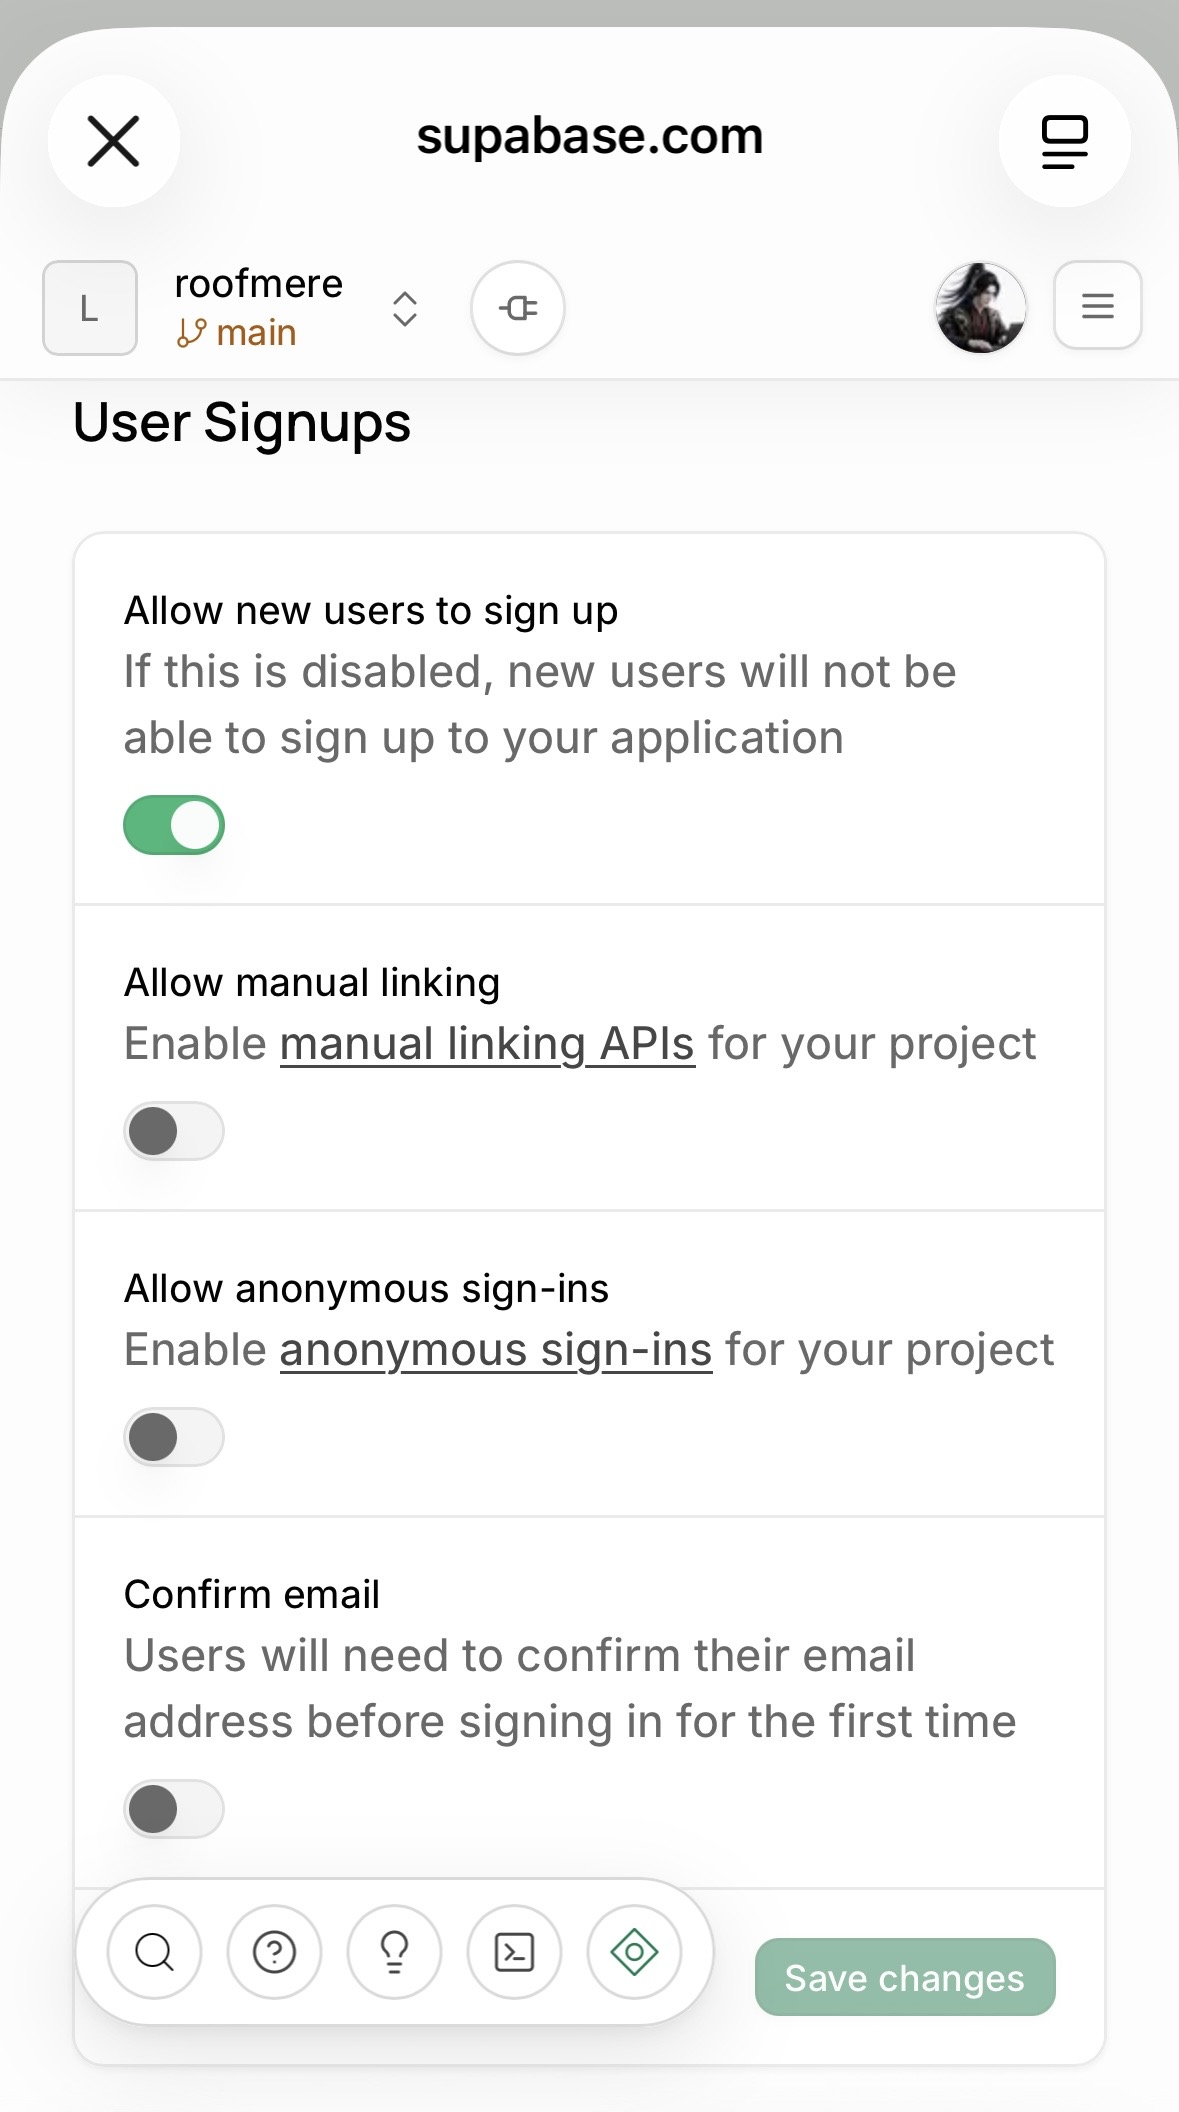
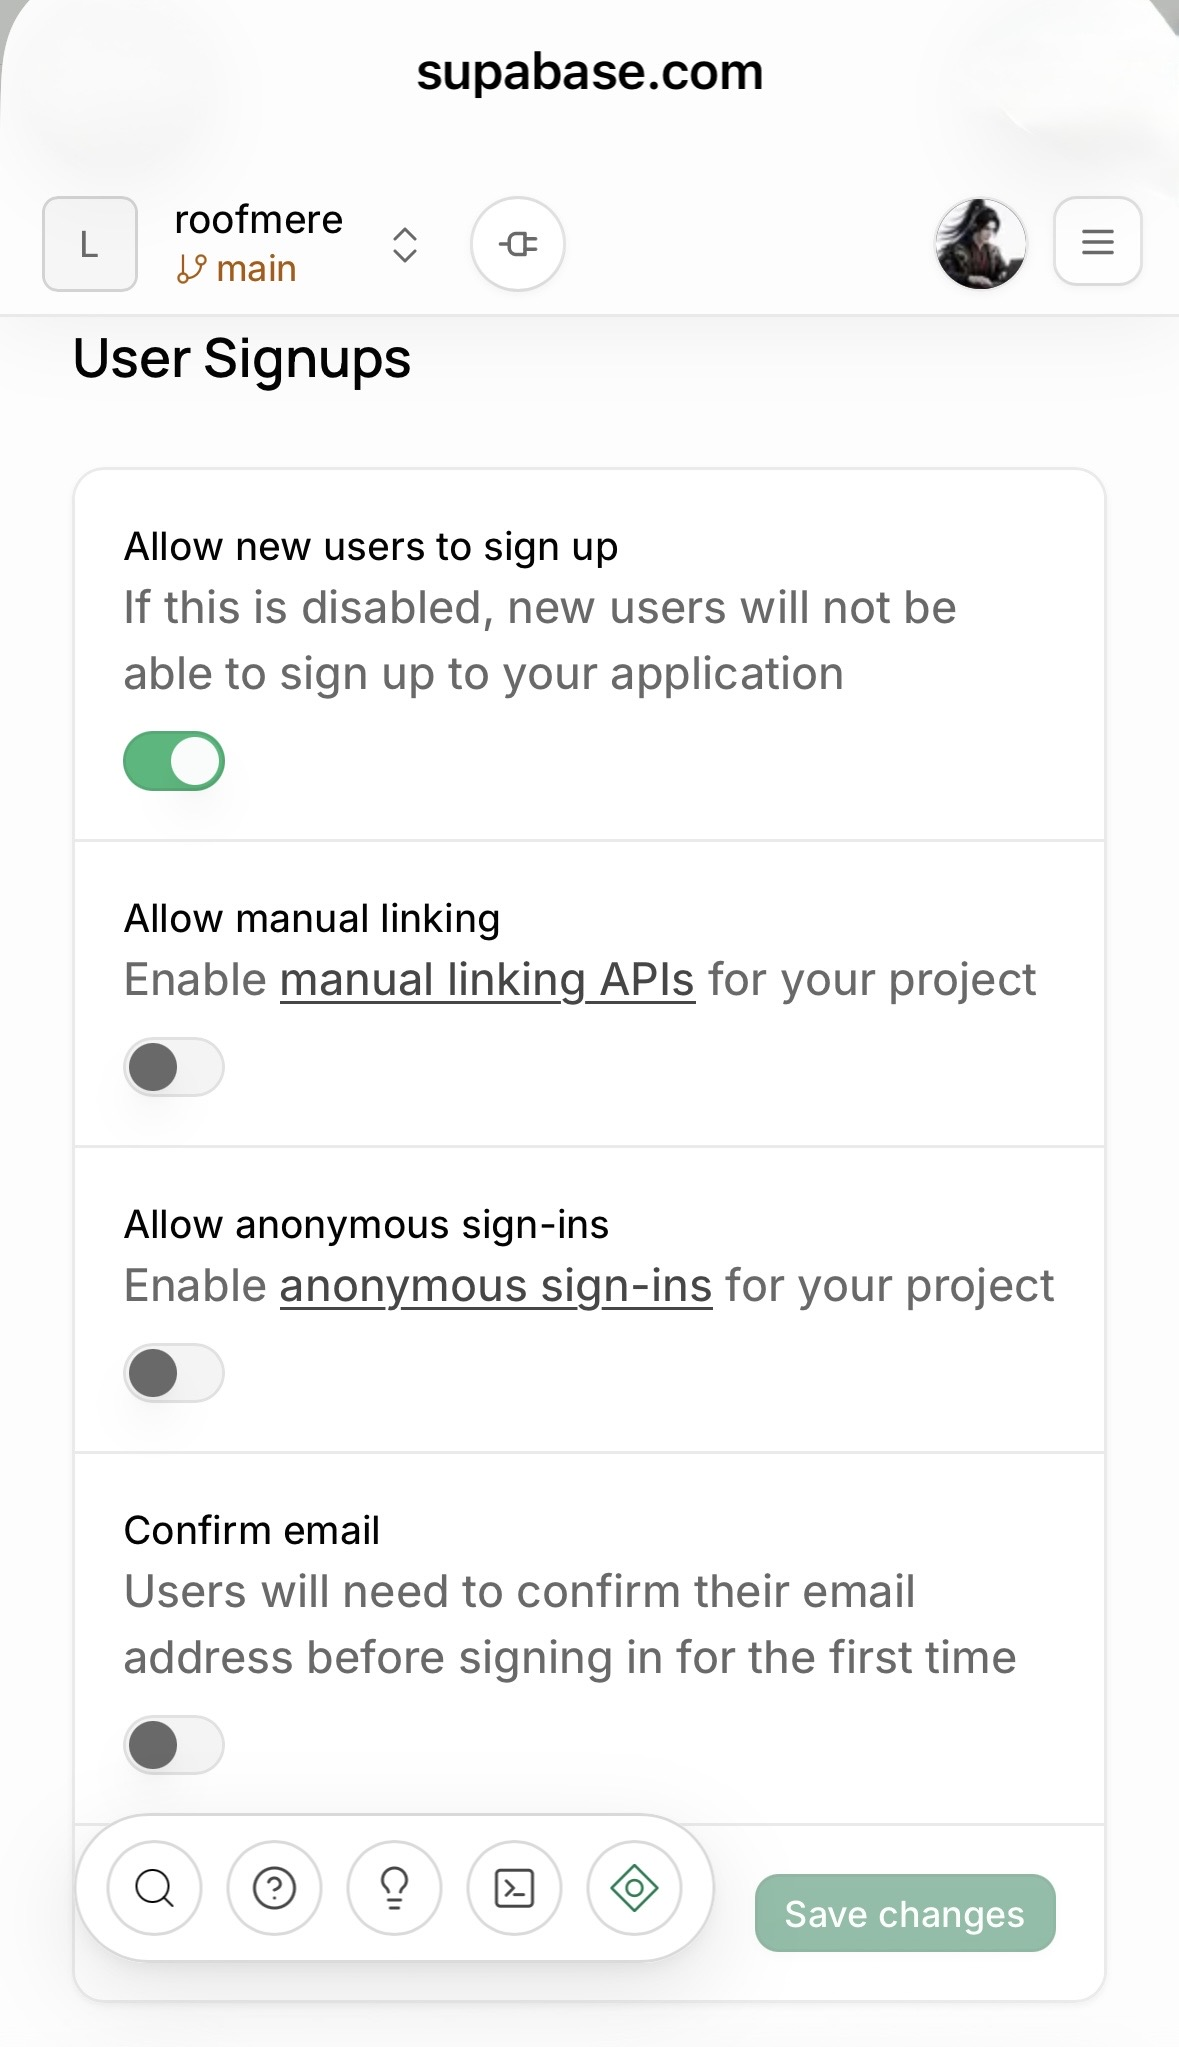
Replace Project URL example with newly uploaded screenshot and refresh image cache

diff --git a/index.html b/index.html
@@ -22,7 +22,7 @@ function card(tag,title,body){panel.innerHTML='<section class="card"><div class=
 function split(left,src,caption){return '<div class="split"><div>'+left+'</div><aside class="shot"><figure><img src="setup-assets/'+src+'" alt="'+esc(caption)+'" loading="lazy" onerror="this.closest(\'figure\').style.display=\'none\'"><figcaption>'+esc(caption)+'</figcaption></figure></aside></div>'}
 function render(){const hero=document.getElementById("welcomeHero"),context=document.getElementById("stepContext");hero.classList.toggle("compact",state.step>0);context.classList.toggle("visible",state.step>0);context.textContent=state.step>0?"Step "+(state.step+1)+" of 6  ·  "+steps[state.step]:"";document.getElementById("progress").innerHTML=steps.map((s,i)=>'<div class="step '+(i<state.step?'done':i===state.step?'current':'')+'" title="'+esc(s)+'"></div>').join("");
 if(state.step===0)card("Step 1 of 6","Let's get started",'<p>No ZIP extraction is needed for database setup. You will create free-tier eligible accounts with Supabase and Netlify. Cloud providers may charge depending on usage.</p><div class="note">No financial information or secret keys are needed in this installer. You can leave and return to this file later.</div>'+nav());
-if(state.step===1)card("Step 2 of 6","Set up your Supabase project",'<p>Follow these steps in order. Your database stays in your own Supabase account.</p><div class="setup-section"><h3>1. Create your project</h3><p>Sign in to Supabase, create a new project, set a strong database password, and wait until it is ready.</p><a class="btn" href="'+links.supabase+'" target="_blank" rel="noopener noreferrer">Open Supabase ↗</a><details class="url-guide"><summary>View example: create a project</summary><div class="url-guide-inner">'+split("","01-create-project.png","Supabase create project example")+'</div></details></div><div class="setup-section"><h3>2. Copy and verify your Project URL</h3><p>On the project overview, tap <b>Copy → Project URL</b>. Paste the copied URL and tap <b>Verify</b>.</p>'+"<details class=\"url-guide\"><summary>View example: where to copy the Project URL</summary><div class=\"url-guide-inner\"><img loading=\"lazy\" alt=\"Example Supabase dashboard with Copy menu and Project URL highlighted; publishable key masked\" src=\"setup-assets/supabase-project-url.jpeg\"><p>In your Supabase project overview, tap <b>Copy</b>, then <b>Project URL</b>. Paste the copied address above.</p></div></details>"+'<label for="authProject">Supabase Project URL</label><div class="verify-row"><input id="authProject" type="url" autocapitalize="off" autocomplete="off" spellcheck="false" placeholder="https://abcdefghijklmnopqrst.supabase.co" value="'+esc(state.projectRef||'')+'" oninput="onProjectEdit(this)"><button id="verifyProjectBtn" type="button" onclick="verifyProject()">Verify</button></div><div class="field-example">Example: <code>https://abcdefghijklmnopqrst.supabase.co</code></div><div class="verify-status" id="projectStatus" role="status" aria-live="polite"></div><p class="muted">Verify checks the Project URL format only. It does not test network access, database permissions, or RLS.</p></div><div class="setup-section"><h3>3. Configure Authentication</h3><p>Once verified, open this project\'s Authentication settings. For this <b>private test only</b>: Allow new users to sign up <b>ON</b>, Allow anonymous sign-ins <b>OFF</b>, Confirm email <b>OFF</b>. Review security before inviting real users.</p><details class="url-guide"><summary>View example: Authentication settings</summary><div class="url-guide-inner"><p class="muted">Use these settings for your private test: <b>Allow new users to sign up — ON</b>; <b>Allow anonymous sign-ins — OFF</b>; <b>Confirm email — OFF</b>.</p><img loading="lazy" src="setup-assets/supabase-authentication-settings.png" alt="Actual Supabase Authentication settings: signups enabled, anonymous sign-ins disabled, email confirmation disabled" style="display:block;width:100%;height:auto;max-width:520px;margin:14px auto;border-radius:14px"></div></details><button id="authSettingsBtn" class="secondary" type="button" onclick="promptAuth()" disabled>Open Authentication Settings ↗</button><p class="muted">This button opens Supabase settings. It does not save or test Authentication settings.</p></div>'+checkbox("database","I created my project, verified its URL, and configured Authentication.")+nav());syncProjectUI();
+if(state.step===1)card("Step 2 of 6","Set up your Supabase project",'<p>Follow these steps in order. Your database stays in your own Supabase account.</p><div class="setup-section"><h3>1. Create your project</h3><p>Sign in to Supabase, create a new project, set a strong database password, and wait until it is ready.</p><a class="btn" href="'+links.supabase+'" target="_blank" rel="noopener noreferrer">Open Supabase ↗</a><details class="url-guide"><summary>View example: create a project</summary><div class="url-guide-inner">'+split("","01-create-project.png","Supabase create project example")+'</div></details></div><div class="setup-section"><h3>2. Copy and verify your Project URL</h3><p>On the project overview, tap <b>Copy → Project URL</b>. Paste the copied URL and tap <b>Verify</b>.</p>'+"<details class=\"url-guide\"><summary>View example: where to copy the Project URL</summary><div class=\"url-guide-inner\"><img loading=\"lazy\" alt=\"Example Supabase dashboard with Copy menu and Project URL highlighted; publishable key masked\" src=\"setup-assets/supabase-project-url.jpeg?v=2\"><p>In your Supabase project overview, tap <b>Copy</b>, then <b>Project URL</b>. Paste the copied address above.</p></div></details>"+'<label for="authProject">Supabase Project URL</label><div class="verify-row"><input id="authProject" type="url" autocapitalize="off" autocomplete="off" spellcheck="false" placeholder="https://abcdefghijklmnopqrst.supabase.co" value="'+esc(state.projectRef||'')+'" oninput="onProjectEdit(this)"><button id="verifyProjectBtn" type="button" onclick="verifyProject()">Verify</button></div><div class="field-example">Example: <code>https://abcdefghijklmnopqrst.supabase.co</code></div><div class="verify-status" id="projectStatus" role="status" aria-live="polite"></div><p class="muted">Verify checks the Project URL format only. It does not test network access, database permissions, or RLS.</p></div><div class="setup-section"><h3>3. Configure Authentication</h3><p>Once verified, open this project\'s Authentication settings. For this <b>private test only</b>: Allow new users to sign up <b>ON</b>, Allow anonymous sign-ins <b>OFF</b>, Confirm email <b>OFF</b>. Review security before inviting real users.</p><details class="url-guide"><summary>View example: Authentication settings</summary><div class="url-guide-inner"><p class="muted">Use these settings for your private test: <b>Allow new users to sign up — ON</b>; <b>Allow anonymous sign-ins — OFF</b>; <b>Confirm email — OFF</b>.</p><img loading="lazy" src="setup-assets/supabase-authentication-settings.png" alt="Actual Supabase Authentication settings: signups enabled, anonymous sign-ins disabled, email confirmation disabled" style="display:block;width:100%;height:auto;max-width:520px;margin:14px auto;border-radius:14px"></div></details><button id="authSettingsBtn" class="secondary" type="button" onclick="promptAuth()" disabled>Open Authentication Settings ↗</button><p class="muted">This button opens Supabase settings. It does not save or test Authentication settings.</p></div>'+checkbox("database","I created my project, verified its URL, and configured Authentication.")+nav());syncProjectUI();
 if(state.step===2)card("Step 3 of 6","Prepare your database",'<p><b>No ZIP or file upload needed.</b> Copy the bundled SQL, open SQL Editor for your <b>empty test project</b>, paste, then click Run. Confirm households, accounts and assets in Table Editor.</p><label for="projectRef">Your Supabase dashboard URL or Project ID</label><input id="projectRef" type="text" placeholder="https://supabase.com/dashboard/project/abcdefghijklmnopqrst" value="'+esc(state.projectRef||'')+'" oninput="saveProject(this.value)"><div class="field-example">Example: <code>https://supabase.com/dashboard/project/abcdefghijklmnopqrst</code></div><div class="field-error" id="projectRefError" role="status" aria-live="polite"></div><div class="row"><button onclick="copySql()">① Copy SQL</button><button class="secondary" onclick="openProjectPage()">② Open SQL Editor ↗</button></div><div class="note">Opening SQL Editor does not run SQL automatically.</div><div class="note warning">Only run against a new empty project. Do not run against an existing database with important data without a backup.</div><div id="sqlResult" class="muted"></div>'+checkbox("schema","I ran SQL successfully and confirmed the tables exist.")+nav());
 if(state.step===3)card("Step 4 of 6","Put your website online",'<p>Your Netlify site belongs to you. To deploy without sharing secrets with Roofmere, use Netlify’s official dashboard.</p><div class="row"><a class="btn" target="_blank" rel="noopener noreferrer" href="'+links.netlify+'">Open Netlify ↗</a></div><p>1. Create or sign in to Netlify.<br>2. Put the extracted Roofmere files into a <b>private Git repository</b> you control. Do not commit secrets.<br>3. In Netlify choose <b>Add new project → Import an existing project</b> and connect that repository.<br>4. Keep publish directory <b>.</b> and confirm netlify.toml configures <b>netlify/functions</b>. Deploy and keep the dashboard open.</p><div class="note warning"><b>Important:</b> Avoid drag-and-drop deployment: it may omit serverless Functions. Use the Git-connected method above. After deploying, open your website address followed by <b>/.netlify/functions/config</b>. It must show JSON, not 404.</div>'+split(checkbox("website","My Netlify site has been created."), "06-netlify-deploy-log.png", "Netlify: deploy log")+nav());
 if(state.step===4)card("Step 5 of 6","Secure your connection",'<p>In your <b>own Netlify dashboard</b>, open <b>Site configuration → Environment variables</b>. Add the following variable names with values from your Supabase project:</p><pre>SUPABASE_URL\nSUPABASE_PUBLISHABLE_KEY\nSUPABASE_SECRET_KEY\nALLOWED_EMAILS\nALPHAVANTAGE_API_KEY</pre><p><b>SUPABASE_URL</b>: Supabase Project Settings → API → Project URL.<br><b>SUPABASE_PUBLISHABLE_KEY</b>: Supabase API keys → publishable key.<br><b>SUPABASE_SECRET_KEY</b>: server-side secret/service-role key.<br><b>ALLOWED_EMAILS</b>: your own sign-in email address (comma-separate family members).<br><b>ALPHAVANTAGE_API_KEY</b>: free key from alphavantage.co, used for the daily price sync.</p><div class="note warning">Never paste a secret key into this Wizard, a public website, GitHub, or a chat. Add it only in Netlify’s official environment-variable UI. After saving, redeploy your site so Functions receive the values. The server key must never be returned to the browser.</div><div class="row"><a class="btn secondary" href="'+links.netlify+'" target="_blank" rel="noopener noreferrer">Open Netlify ↗</a><a class="btn secondary" href="'+links.docs+'" target="_blank" rel="noopener noreferrer">Netlify help ↗</a></div>'+split(checkbox("secrets","I configured the variables in Netlify and redeployed."), "07-netlify-env-vars.png", "Netlify: environment variables")+nav());
